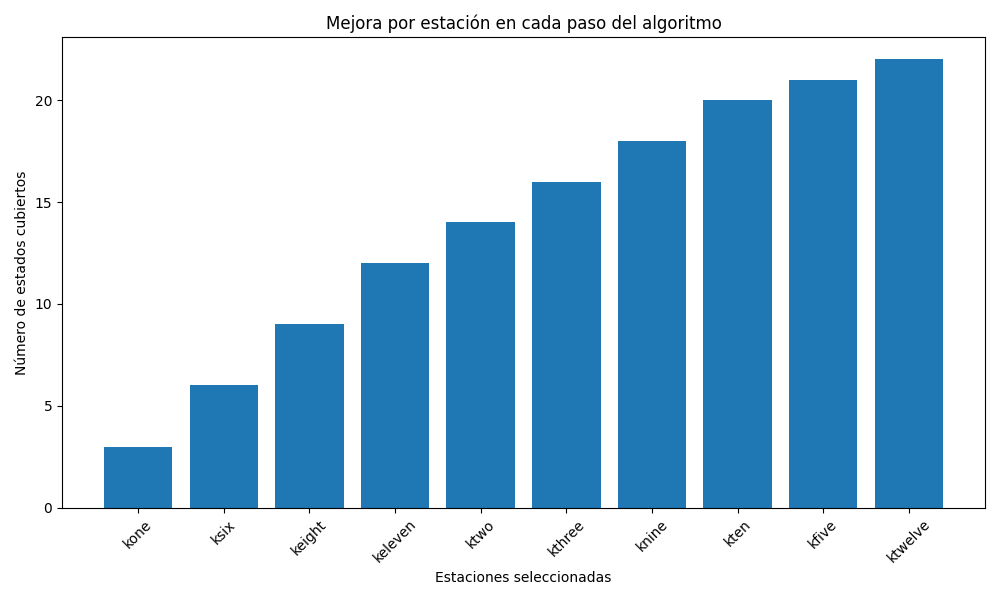
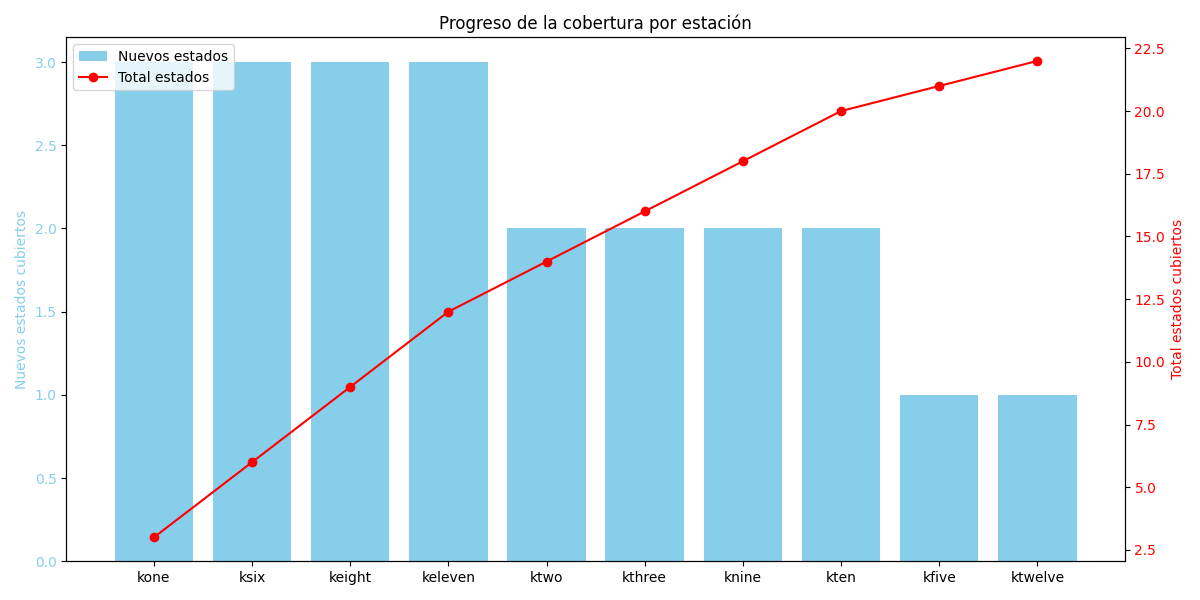
refactor(greedy_search): Separar responsabilidades por modulo

diff --git a/src/greedy_search.py b/src/greedy_search.py
@@ -1,4 +1,4 @@
-import matplotlib.pyplot as plt
+import plot as plot
 import random
 
 # estados de USA donde queremos ser escuchados
@@ -49,49 +49,32 @@ def greedy_search_global(stations, needed_states):
             stations_needed.append(best_station)
             stations.pop(best_station)
 
-    print(f"covered: {covered_states}")
-    print(f"stations: {stations_needed}")
-    print(f"num states covered: {num_states_covered}")
-    print(f"gradients: {gradients}")
-
-    # Crear la visualización
-    plt.figure(figsize=(10, 6))
-    plt.bar(stations_needed, num_states_covered)
-    plt.title("Mejora por estación en cada paso del algoritmo")
-    plt.xlabel("Estaciones seleccionadas")
-    plt.ylabel("Número de estados cubiertos")
-    plt.xticks(rotation=45)
-
-    plt.tight_layout()
-    plt.show()
+    return (stations_needed, num_states_covered, gradients, covered_states)
 
 
 def greedy_search_local(stations, needed_states):
+    NUM_SEARCHES = 40
+    MAX_NUM_STATIONS = 10
     num_uncovered_states = []
     # stations_needed = []
-    for _ in range(40):
+    for _ in range(NUM_SEARCHES):
         covered_states = set()
         stations_names = list(stations.keys())
-        random_stations = random.sample(stations_names, k=10)
+        random_stations = random.sample(stations_names, k=MAX_NUM_STATIONS)
         for station in random_stations:
             covered_states = covered_states | (stations[station])
             # stations_needed.append(station)
         num_uncovered_states.append(len(needed_states - covered_states))
+    return num_uncovered_states
 
-    # print(f"stations: {stations_needed}")
-    print(f"num states uncovered: {num_uncovered_states}")
 
-    plt.figure(figsize=(10, 6))
-    plt.bar(range(len(num_uncovered_states)), num_uncovered_states)
-    plt.title("Mínimos locales")
-    plt.xlabel("Iteracion")
-    plt.ylabel("Número de estados sin cubrir")
-    plt.xticks(rotation=45)
+def main():
+    search_state = greedy_search_global(stations.copy(), needed_states)
+    plot.plot_greedy_search_global(*search_state)
 
-    plt.tight_layout()
-    plt.show()
+    num_uncovered_states = greedy_search_local(stations.copy(), needed_states)
+    plot.plot_greedy_search_local(num_uncovered_states)
 
 
 if __name__ == "__main__":
-    greedy_search_global(stations.copy(), needed_states)
-    greedy_search_local(stations.copy(), needed_states)
+    main()

diff --git a/src/plot.py b/src/plot.py
@@ -1,0 +1,58 @@
+import matplotlib.pyplot as plt
+
+
+def plot_greedy_search_global(
+    stations_needed, num_states_covered, gradients, covered_states
+):
+    print(f"covered states: {covered_states}")
+    print(f"stations needed: {stations_needed}")
+    print(f"num states covered: {num_states_covered}")
+    print(f"gradients: {gradients}")
+
+    # Crear la visualización
+    plt.figure(figsize=(12, 6))
+
+    # Crear el primer eje para las barras
+    ax1 = plt.gca()
+    ax1.bar(stations_needed, gradients, color="skyblue", label="Nuevos estados")
+    ax1.set_ylabel("Nuevos estados cubiertos", color="skyblue")
+    ax1.tick_params(axis="y", labelcolor="skyblue")
+
+    # Crear el segundo eje para la línea
+    ax2 = ax1.twinx()
+    ax2.plot(
+        stations_needed,
+        num_states_covered,
+        color="red",
+        marker="o",
+        label="Total estados",
+    )
+    ax2.set_ylabel("Total estados cubiertos", color="red")
+    ax2.tick_params(axis="y", labelcolor="red")
+
+    plt.title("Progreso de la cobertura por estación")
+    plt.xticks(rotation=45)
+
+    # Combinar leyendas de ambos ejes
+    lines1, labels1 = ax1.get_legend_handles_labels()
+    lines2, labels2 = ax2.get_legend_handles_labels()
+    ax1.legend(lines1 + lines2, labels1 + labels2, loc="upper left")
+
+    plt.tight_layout()
+    plt.show()
+
+
+def plot_greedy_search_local(
+    num_uncovered_states,
+):  
+    print(f"num states uncovered: {num_uncovered_states}")
+
+    plt.figure(figsize=(10, 6))
+    plt.bar(range(len(num_uncovered_states)), num_uncovered_states)
+    plt.title("Mínimos locales")
+    plt.xlabel("Iteracion")
+    plt.ylabel("Número de estados sin cubrir")
+    plt.xticks(rotation=45)
+
+    plt.tight_layout()
+    plt.show()
